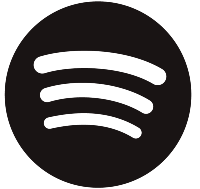
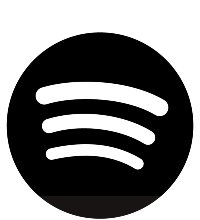
wip

diff --git a/js/main.js b/js/main.js
@@ -214,6 +214,11 @@ $( document ).ready( function () {
                 $( this ).trigger( 'click' );
                 return false;
             } );
+            if ( xxxVisible ) {
+                $( '#spotifyIcon' ).attr( 'src', './assets/spotifyDevil.png' )
+            } else {
+                $( '#spotifyIcon' ).attr( 'src', './assets/spotify.png' )
+            }
         }
     } );
     $( document ).keyup( function ( e ) {
@@ -232,6 +237,11 @@ $( document ).ready( function () {
                         $( this ).trigger( 'click' );
                         return false;
                     } );
+                    if ( xxxVisible ) {
+                        $( '#spotifyIcon' ).attr( 'src', './assets/spotifyDevil.png' )
+                    } else {
+                        $( '#spotifyIcon' ).attr( 'src', './assets/spotify.png' )
+                    }
                 }
                 break;
             case 3:
@@ -239,6 +249,7 @@ $( document ).ready( function () {
                 break;
         }
     } );
+
     $( '#activateHiddenMenue' ).mouseout( function ( event ) {
         rightMouseClicked = false;
     } );

diff --git a/css/main.css b/css/main.css
@@ -500,6 +500,12 @@ li, .options, .form-check-label {
     cursor: url('../assets/rainbow-gradient-pointer-32x32.png'), pointer !important;
 }
 
+#spotifyIcon {
+    height: 53px;
+    top: -8px;
+    position: inherit;
+}
+
 .refreshIcon {
     height: 35px;
     cursor: url('../assets/rainbow-gradient-pointer-32x32.png'), pointer !important;
